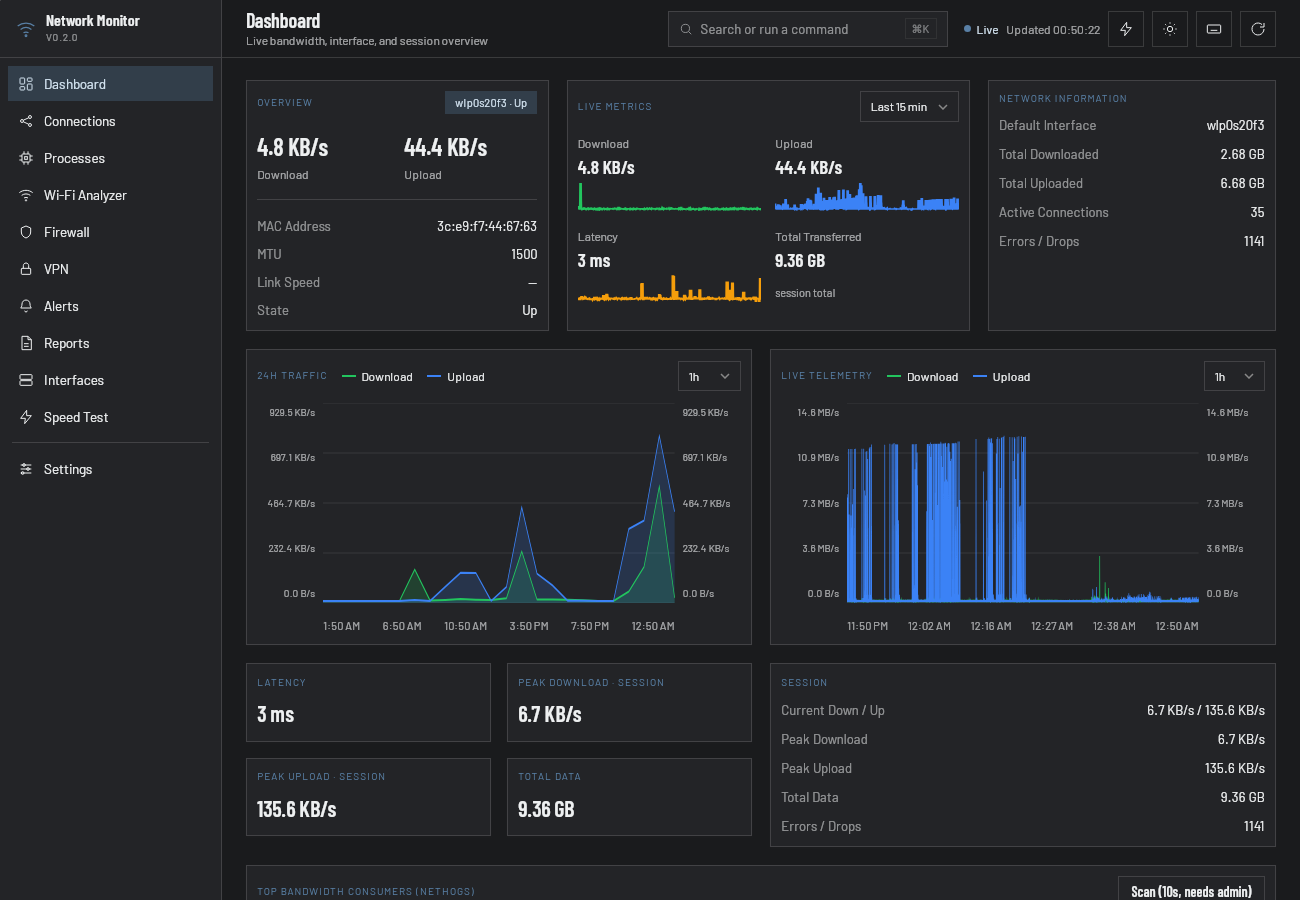
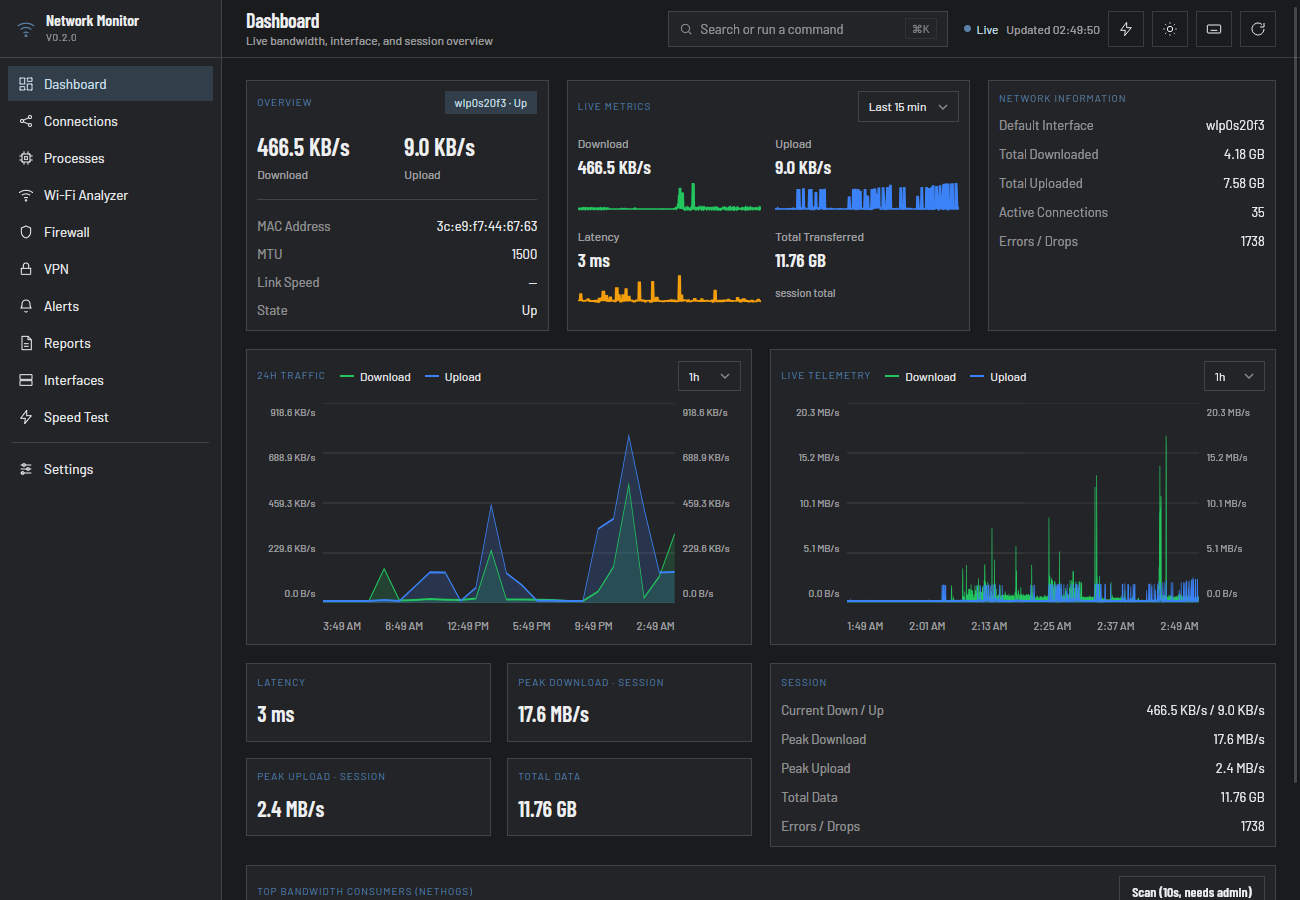
Add Connections and Interfaces screenshots, expand README gallery

diff --git a/README.md b/README.md
@@ -9,6 +9,14 @@ backed by real system data, with nothing simulated or faked.
 
 ![Network Monitor dashboard](.github/screenshots/dashboard.png)
 
+<details>
+<summary>More screenshots — Connections (Geo-IP map) &amp; Interfaces</summary>
+
+![Connections with Geo-IP map](.github/screenshots/connections.png)
+![Interfaces](.github/screenshots/interfaces.png)
+
+</details>
+
 ## Why
 
 Most of this information is already on your system somewhere —
